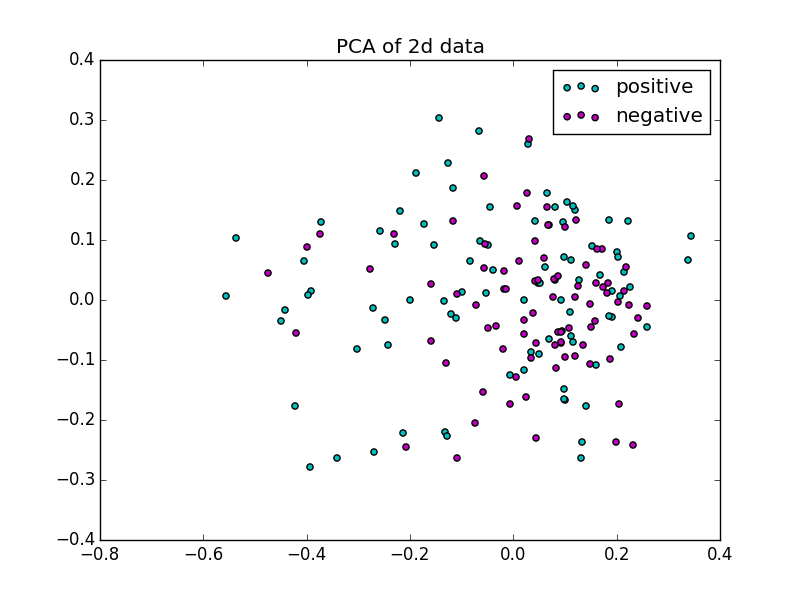
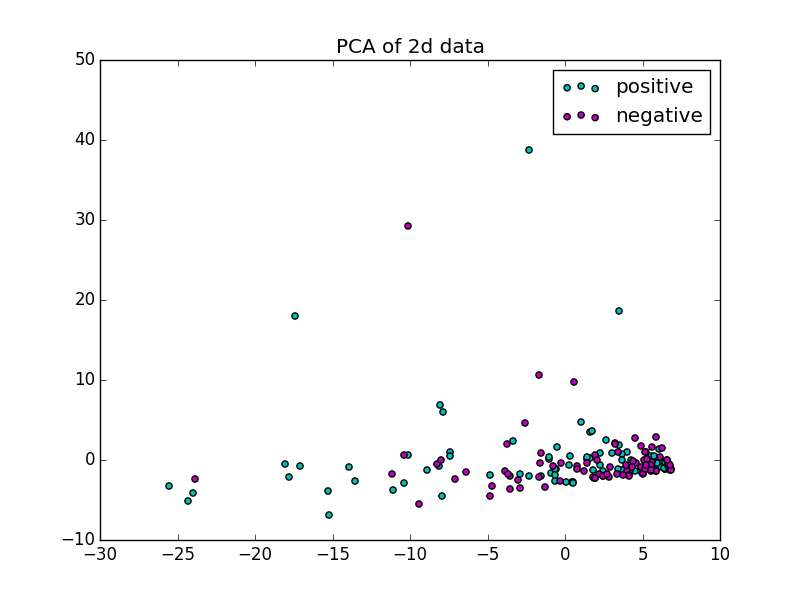
Updated experiments

diff --git a/cv-train.py b/cv-train.py
@@ -18,6 +18,7 @@ from sklearn.externals import joblib
 from sklearn.preprocessing import label_binarize
 from sklearn.preprocessing import normalize
 from sklearn.decomposition import PCA
+from sklearn.feature_selection import VarianceThreshold
 
 from matplotlib import pyplot as plt
 
@@ -195,7 +196,7 @@ def get_kmer_counts(seq, ref):
     for kmer in pos_kmers:
         if kmer != neg_strand(kmer):
             idx = ref[kmer]
-            if CONTINUOUS_FEATURES: 
+            if CONTINUOUS_FEATURES:
                 row[idx] += 1
             else:
                 row[idx] = 1
@@ -359,51 +360,52 @@ if TRAIN_EXPERIMENTAL:
 
     clf = svm.SVC(kernel='rbf', C=1)
     clf.fit(X_train, y_train)
+    sys.exit(0)
 
-else:
-    examples, labels, locations = load_named_seq(FASTA_HUMAN_SRC)
-    _X, _y = get_XY(examples, labels, kmers_index)
+# else
 
-    # X = np.hstack((
-    #     X,
-    #     get_Ebox_col(examples),
-    #     get_TAAT_core_col(examples)
-    # ))
+# examples, labels, locations = load_named_seq(FASTA_HUMAN_SRC)
+# _X, _y = get_XY(examples, labels, kmers_index)
 
-    clf = svm.SVC(kernel='linear', C=1)
+# X = np.hstack((
+#     X,
+#     get_Ebox_col(examples),
+#     get_TAAT_core_col(examples)
+# ))
 
-    X = _X
-    y = _y
+clf = svm.SVC(kernel='linear', C=1)
 
-    if NORMALIZE:
-        X = normalize(X, axis=1, norm='l1')
+X = _X
+X = VarianceThreshold(threshold=2.0).fit_transform(X)
+y = _y
 
-    if FEATURE_SELECTION:
-        from sklearn.feature_selection import VarianceThreshold
-        from sklearn.feature_selection import SelectKBest
-        from sklearn.feature_selection import chi2
-        # Remove low-variance features
-        # X = VarianceThreshold(threshold=0.8).fit_transform(X)
-        # K-best features
-        X = SelectKBest(chi2, k=5).fit_transform(X, y)
+if NORMALIZE:
+    X = normalize(X, axis=1, norm='l1')
 
-    if SHOULD_SPLIT:
-        X_train, X_test, y_train, y_test = cross_validation.train_test_split(
-            X, y, test_size=0.3, random_state=0)
-        clf.fit(X_train, y_train)
-        clf.score(X_test, y_test)
-        # transform labels from [-1,1] to [0,1]
-        _y_test = label_binarize(y_test, classes=[-1, 1])
-        y_scores = clf.decision_function(X_test)
+if FEATURE_SELECTION:
+    from sklearn.feature_selection import SelectKBest
+    from sklearn.feature_selection import chi2
+    # Remove low-variance features
+    # K-best features
+    X = SelectKBest(chi2, k=60).fit_transform(X, y)
 
-        if SPLIT_PLOT_RESULTS:
-            plot_roc(_y_test, y_scores)
-            plot_precision_recall(_y_test, y_scores)
-            plot_2d_results(X_test, y_test, clf.predict(X_test))
+if SHOULD_SPLIT:
+X_train, X_test, y_train, y_test = cross_validation.train_test_split(
+    X, y, test_size=0.3, random_state=0)
+clf.fit(X_train, y_train)
+clf.score(X_test, y_test)
+    # transform labels from [-1,1] to [0,1]
+    _y_test = label_binarize(y_test, classes=[-1, 1])
+    y_scores = clf.decision_function(X_test)
 
-    if FOLD_CV:
-        scores = cross_validation.cross_val_score(clf, X, y, cv=5)
-        print "%d-fold cv, average accuracy %f" % (len(scores), scores.mean())
+    if SPLIT_PLOT_RESULTS:
+        plot_roc(_y_test, y_scores)
+        plot_precision_recall(_y_test, y_scores)
+        plot_2d_results(X_test, y_test, clf.predict(X_test))
+
+if FOLD_CV:
+    scores = cross_validation.cross_val_score(clf, X, y, cv=5)
+    print "%d-fold cv, average accuracy %f" % (len(scores), scores.mean())
 
 
 # == K-fold cross validation ==
